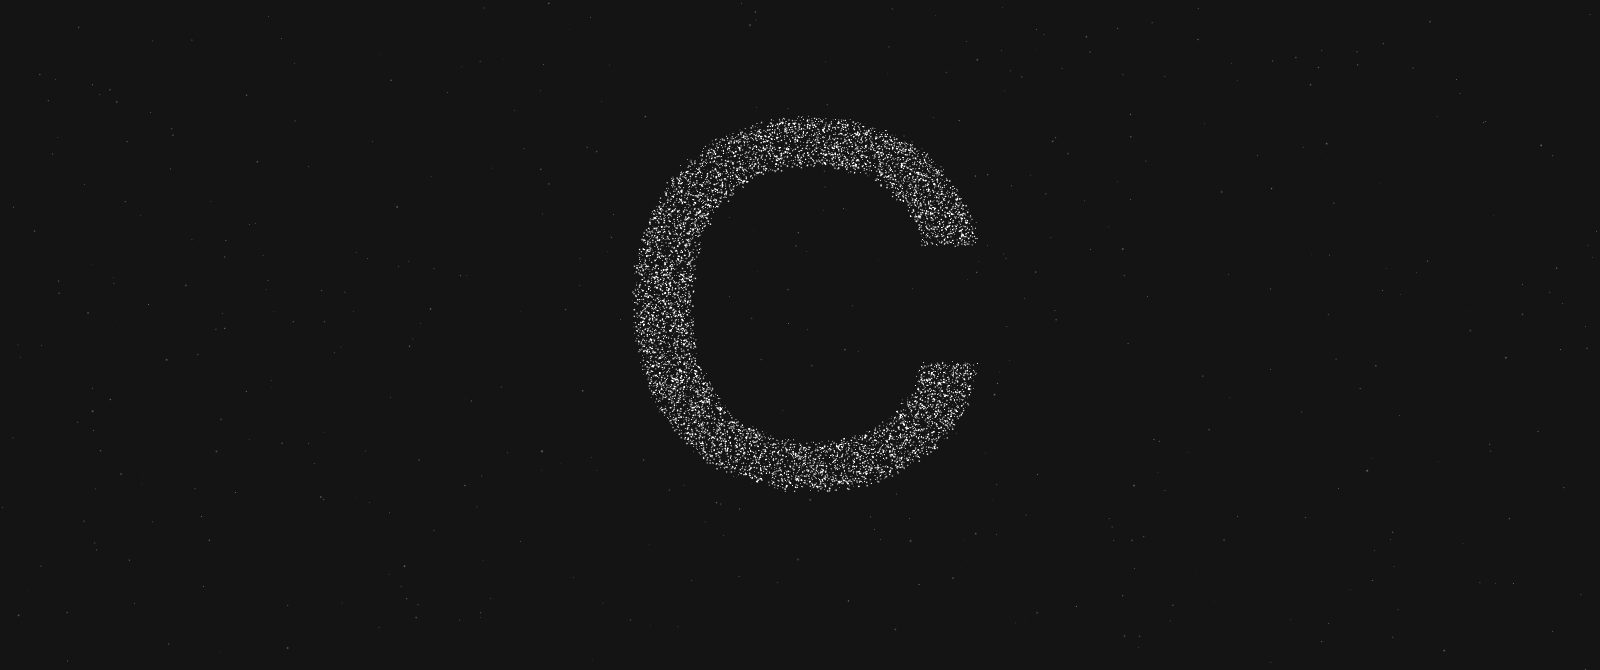
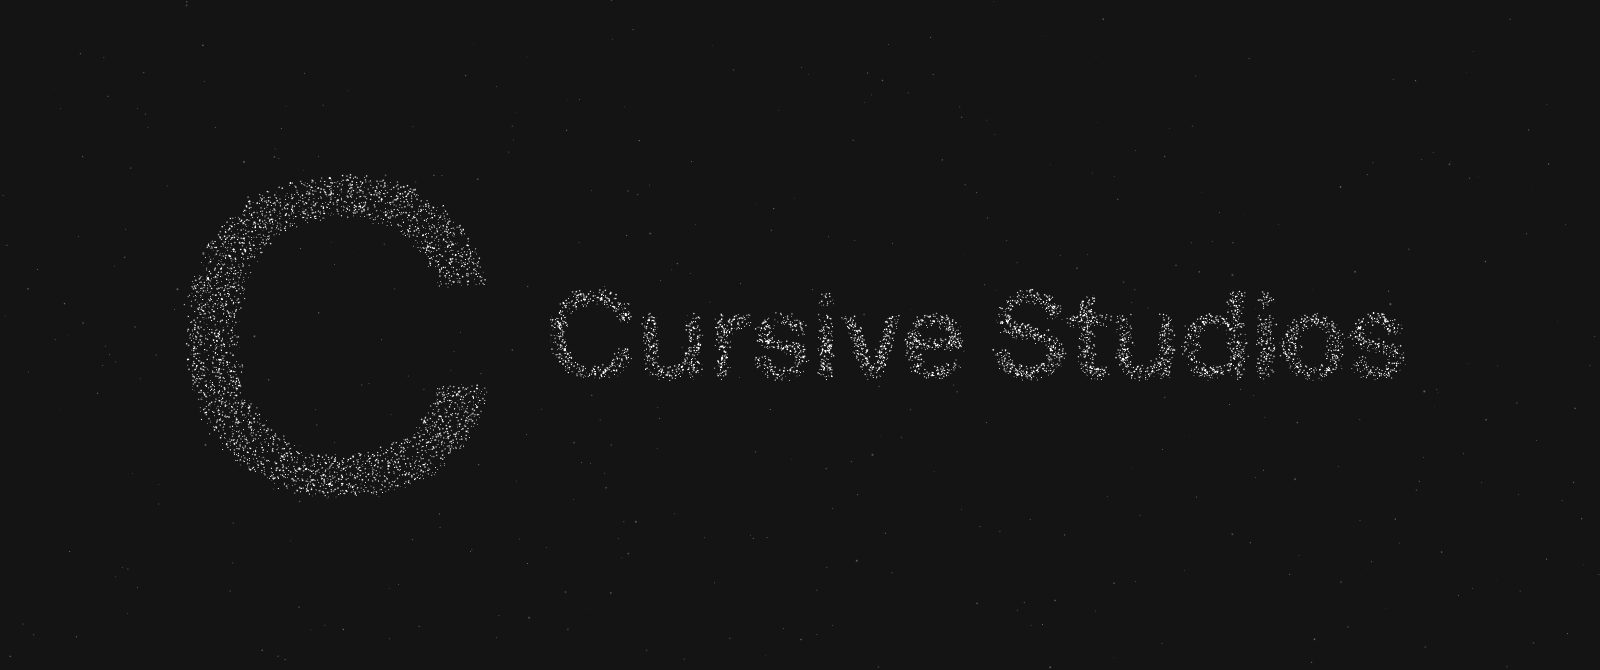
Hero: faster again; the opening writes Cursive Studios beside the C
Claude-Session: https://claude.ai/code/session_01FbgKnymbmvSRoaoZYVcCpj

Changed region(s): [[0.3438, 0.1791, 0.875, 0.7463], [0.125, 0.2687, 0.3125, 0.7463]]

diff --git a/js/three/particles.js b/js/three/particles.js
@@ -9,18 +9,18 @@ import { reducedMotion, tokenRGB } from './support.js';
 const PX = 512, UNIT = 200; // shapes are drawn on a 512px canvas; 200px = 1 unit in the scene
 
 // Draw a shape on a canvas and return n points sampled from its lit pixels.
-function sample(draw, n) {
-  const c = document.createElement('canvas'); c.width = c.height = PX;
+function sample(draw, n, W = PX, H = PX) {
+  const c = document.createElement('canvas'); c.width = W; c.height = H;
   const ctx = c.getContext('2d', { willReadFrequently: true });
   ctx.fillStyle = ctx.strokeStyle = '#fff'; ctx.lineJoin = ctx.lineCap = 'round';
-  draw(ctx);
-  const data = ctx.getImageData(0, 0, PX, PX).data, lit = [];
-  for (let i = 0; i < PX * PX; i++) if (data[i * 4 + 3] > 128) lit.push(i);
+  draw(ctx, W, H);
+  const data = ctx.getImageData(0, 0, W, H).data, lit = [];
+  for (let i = 0; i < W * H; i++) if (data[i * 4 + 3] > 128) lit.push(i);
   const out = new Float32Array(n * 3);
   for (let k = 0; k < n; k++) {
     const i = lit[(Math.random() * lit.length) | 0] ?? 0;
-    out[k * 3] = ((i % PX) + Math.random() - PX / 2) / UNIT;
-    out[k * 3 + 1] = -(((i / PX) | 0) + Math.random() - PX / 2) / UNIT;
+    out[k * 3] = ((i % W) + Math.random() - W / 2) / UNIT;
+    out[k * 3 + 1] = -(((i / W) | 0) + Math.random() - H / 2) / UNIT;
     out[k * 3 + 2] = (Math.random() - 0.5) * 0.08;
   }
   return out;
@@ -28,13 +28,39 @@ function sample(draw, n) {
 
 const roundRect = (ctx, x, y, w, h, r) => { ctx.beginPath(); ctx.roundRect(x, y, w, h, r); };
 
+// The opening: a big C with the name "Cursive Studios" written beside it (wide frames)
+// or under it (narrow frames), in the site's display face, centred on the canvas.
+function lockup(row) {
+  const W = row ? 1500 : 1000, H = row ? 640 : 800;
+  const draw = (part) => (ctx) => {
+    const face = (px) => `500 ${px}px "Mona Sans", system-ui, sans-serif`;
+    const box = (text, px) => { ctx.font = face(px); const m = ctx.measureText(text); return { w: m.actualBoundingBoxRight + m.actualBoundingBoxLeft, up: m.actualBoundingBoxAscent, down: m.actualBoundingBoxDescent, left: m.actualBoundingBoxLeft }; };
+    const cPx = row ? 400 : 280, cBox = box('C', cPx);
+    const maxText = row ? 1150 - cBox.w - 60 : 760;
+    let tPx = 120, tBox = box('Cursive Studios', tPx);
+    tPx = Math.min(tPx, (tPx * maxText) / tBox.w); tBox = box('Cursive Studios', tPx);
+    ctx.textBaseline = 'alphabetic';
+    if (row) {
+      const total = cBox.w + 60 + tBox.w, x0 = (W - total) / 2, cy = H / 2;
+      ctx.font = face(cPx); if (part === 'c') ctx.fillText('C', x0 + cBox.left, cy + (cBox.up - cBox.down) / 2);
+      ctx.font = face(tPx); if (part === 't') ctx.fillText('Cursive Studios', x0 + cBox.w + 60 + tBox.left, cy + (tBox.up - tBox.down) / 2);
+    } else {
+      const gap = 40, total = cBox.up + cBox.down + gap + tBox.up + tBox.down, y0 = (H - total) / 2 - 45; // a little high, clear of the Pause button
+      ctx.font = face(cPx); if (part === 'c') ctx.fillText('C', (W - cBox.w) / 2 + cBox.left, y0 + cBox.up);
+      ctx.font = face(tPx); if (part === 't') ctx.fillText('Cursive Studios', (W - tBox.w) / 2 + tBox.left, y0 + cBox.up + cBox.down + gap + tBox.up);
+    }
+  };
+  // the C and the name are sampled apart, so the thin letters get as many points as the big C
+  return (n) => {
+    const nc = Math.round(n * (row ? 0.42 : 0.5));
+    const out = new Float32Array(n * 3);
+    out.set(sample(draw('c'), nc, W, H));
+    out.set(sample(draw('t'), n - nc, W, H), nc * 3);
+    return out;
+  };
+}
+
 const shapes = {
-  // the studio's initial, in the site's display face
-  letter: (ctx) => {
-    ctx.font = '500 470px "Mona Sans", system-ui, sans-serif';
-    ctx.textAlign = 'center'; ctx.textBaseline = 'middle';
-    ctx.fillText('C', 262, 270);
-  },
   // AI UGC ads: a vertical video with a play button
   video: (ctx) => {
     ctx.lineWidth = 12; roundRect(ctx, 166, 46, 180, 420, 34); ctx.stroke();
@@ -143,7 +169,7 @@ export async function mount(el, { tier = 'full', start = 0 } = {}) {
 
   // The order the points play through, and the words shown under each
   const steps = [
-    { name: 'Cursive Studios', pts: sample(shapes.letter, N) },
+    { name: '', logo: true, pts: lockup(el.clientWidth / Math.max(1, el.clientHeight) >= 1.9)(N) }, // the name is written in points, so no caption
     { name: 'AI UGC ads', pts: sample(shapes.video, N) },
     { name: 'Motion graphics', pts: sample(shapes.building, N) },
     { name: 'Website design', pts: sample(shapes.browser, N) },
@@ -254,11 +280,12 @@ export async function mount(el, { tier = 'full', start = 0 } = {}) {
   el.addEventListener('pointerleave', () => { pointerOn = 0; target.x = target.y = 0; });
 
   // Timeline: form, hold, then re-form into the next shape
-  const MORPH = 0.8, HOLD = 1.1, HOLD_ALL = 3;
+  const MORPH = 0.55, HOLD = 0.75, HOLD_LOGO = 1.3, HOLD_ALL = 2.2;
   let step = 0, clock = 0;
   const next = () => {
     from.array.set(to.array);
     step = (step + 1) % steps.length;
+    if (steps[step].logo) steps[step].pts = lockup(camera.aspect >= 1.9)(N);
     if (steps[step].all) { const l = layout(); to.array.set(l.pts); tagSpots = l.labels; tags.hidden = false; } else { to.array.set(steps[step].pts); tagSpots = null; tags.hidden = true; }
     from.needsUpdate = to.needsUpdate = true;
     clock = 0;
@@ -272,7 +299,7 @@ export async function mount(el, { tier = 'full', start = 0 } = {}) {
   const pose = (dt) => {
     clock += dt;
     const all = steps[step].all;
-    if (clock > MORPH + (all ? HOLD_ALL : HOLD)) next();
+    if (clock > MORPH + (all ? HOLD_ALL : steps[step].logo ? HOLD_LOGO : HOLD)) next();
     uniforms.uMix.value = Math.min(clock / MORPH, 1);
     if (clock > MORPH * 0.7) {
       if (all) tags.classList.add('is-shown');

diff --git a/index.html b/index.html
@@ -138,7 +138,7 @@
       <figure class="hero__frame" id="hero-3d">
         <picture>
           <source srcset="content/images/hero-particles-1600.webp 1600w, content/images/hero-particles-960.webp 960w" sizes="100vw" type="image/webp">
-          <img class="hero__still" src="content/images/hero-particles-1600.jpg" width="1600" height="670" alt="The letter C made of thousands of small points of light on a dark stage" fetchpriority="high">
+          <img class="hero__still" src="content/images/hero-particles-1600.jpg" width="1600" height="670" alt="A large letter C and the name Cursive Studios, made of thousands of small points of light on a dark stage" fetchpriority="high">
         </picture>
         <button class="btn btn--small hero__motion" type="button" aria-pressed="false" data-motion-toggle hidden>Pause</button>
       </figure>

diff --git a/css/main.css b/css/main.css
@@ -164,6 +164,7 @@ video { -webkit-touch-callout: none; -webkit-user-select: none; user-select: non
   .hero { min-height: 0; }
   .hero__card { grid-template-columns: minmax(0, 1fr); }
   .hero__frame { width: 100%; height: auto; min-height: 0; aspect-ratio: 16 / 10; }
+  .hero__still { object-fit: contain; } /* the still is a wide lockup: show all of it */
   .index__row { grid-template-columns: minmax(0, 1fr); padding-inline: 0; }
   .index__link { justify-self: start; }
   .work { grid-template-columns: repeat(2, minmax(0, 1fr)); row-gap: var(--space-lg); }

diff --git a/CLAUDE.md b/CLAUDE.md
@@ -45,7 +45,7 @@ Static site, no build step or package.json. Pages: `index.html` (homepage) and f
 - Service pages: `css/service.css` (imports `main.css`) and `js/gallery.js`, which builds the filter tabs, cards and the `<dialog>` preview from `content/<slug>.json` (format in `content/README.md`).
 - AI UGC Ads is different: `css/ugc.css` (imports `service.css`) and `js/ugc.js` read `content/ugc/videos.json`; videos in `content/ugc/videos/`, thumbs in `content/ugc/thumbs/` (or full https URLs to an external host). Hover previews on desktop, tap-to-preview then tap-for-player on touch, full-screen `<dialog>` player with sound, category tabs, newest-first order, latest-3 strip in the hero. `tools/add-ugc-video.mjs` (Node + ffmpeg) copies/compresses a video, makes the thumbnail and adds the entry; see `content/ugc/README.md`. The 8 current entries are generated placeholder clips (`"placeholder": true`).
 
-- 3D: Three.js r170 is vendored at `js/vendor/three.module.min.js` (167 KB gzip) and loaded only by dynamic `import()` on the two pages that use it. `js/three/support.js` (tiny, no Three.js) decides: `tier()` returns `none` (data saver, 2G, no WebGL: keep the still image), `lite` (touch, small screen, <=4 cores or <=4 GB: fewer polygons, lower resolution) or `full`. Homepage hero: `js/three/particles.js` (about 9,000 points, 4,200 on lite, that form the C in Mona Sans, then a vertical video, a building, a browser window and a 3D cube for the four services, with a caption under each, then all four together with their names (a row on wide frames, two by two on narrow ones), about 2 s per shape; the pointer pushes them aside), mounted into `#hero-3d` after the page is idle, skipped under reduced motion; still images `content/images/hero-particles-*.webp|jpg`. 3D Websites demo: `js/three/product.js` (drag or arrow keys to turn a serum bottle), mounted when `#product-3d` scrolls near; still `content/images/demo-bottle-*`. Both read colours from `css/settings.css` tokens, pause offscreen and have a visible Pause button. If the 3D changes, re-capture the stills.
+- 3D: Three.js r170 is vendored at `js/vendor/three.module.min.js` (167 KB gzip) and loaded only by dynamic `import()` on the two pages that use it. `js/three/support.js` (tiny, no Three.js) decides: `tier()` returns `none` (data saver, 2G, no WebGL: keep the still image), `lite` (touch, small screen, <=4 cores or <=4 GB: fewer polygons, lower resolution) or `full`. Homepage hero: `js/three/particles.js` (about 9,000 points, 4,200 on lite, that form the C in Mona Sans, then a vertical video, a building, a browser window and a 3D cube for the four services, with a caption under each (the opening writes "Cursive Studios" beside the C, or under it on narrow frames), then all four together with their names (a row on wide frames, two by two on narrow ones), about 1.3 s per shape; the pointer pushes them aside), mounted into `#hero-3d` after the page is idle, skipped under reduced motion; still images `content/images/hero-particles-*.webp|jpg`. 3D Websites demo: `js/three/product.js` (drag or arrow keys to turn a serum bottle), mounted when `#product-3d` scrolls near; still `content/images/demo-bottle-*`. Both read colours from `css/settings.css` tokens, pause offscreen and have a visible Pause button. If the 3D changes, re-capture the stills.
 - Scroll reveal: any element with `data-reveal` fades and rises in once (`js/main.js` IntersectionObserver + MutationObserver, so gallery cards added later are picked up); off under reduced motion. Smooth anchor scrolling is CSS (`scroll-behavior: smooth`, also off under reduced motion).
 - Contact: `contact.html` (+ `css/contact.css`, `js/contact.js`), `thanks.html` (Netlify's no-JS redirect target) and `404.html` (root-absolute asset paths, since it is served at any URL). The enquiry form posts to Netlify Forms (`data-netlify`, honeypot `company-website`) or Formspree, chosen in `content/data.json` `form`; it must never show success without a real 2xx from the service. Style options mirror the gallery data files. A floating "DM us on Instagram" button (`.dm-float` inside `aside.dm-float-wrap`) shows under 60rem on every page except thanks/404 and steps aside while `#contact`, the footer, the hero actions or the homepage hero animation are on screen.
 - SEO: every page has title, description, canonical, Open Graph/Twitter tags with a 1200x630 image in `content/images/share/<slug>.jpg` (template `tools/og-template.html`), and JSON-LD (Organization on home, Service on service pages, ContactPage). `sitemap.xml`, `robots.txt`. The domain is the placeholder `https://cursivestudios.example` until `node tools/set-site.mjs --domain ... --email ... --instagram ...` is run; that tool rewrites domain, email and handle everywhere.
